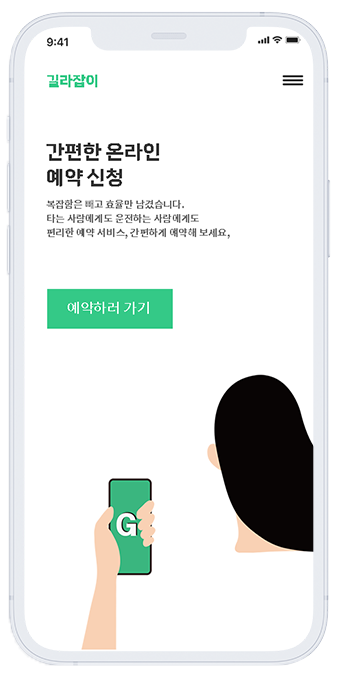
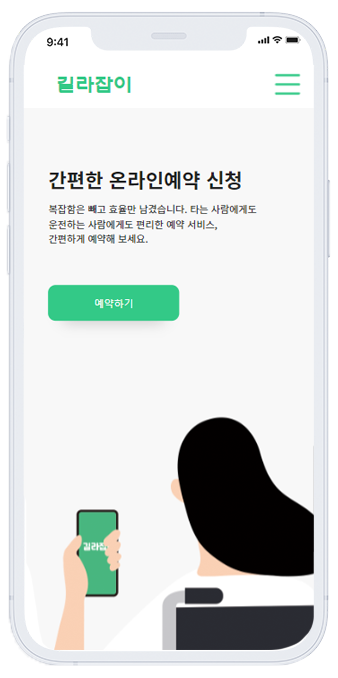
feat: 앱소개 이미지 변경

diff --git a/css/index.css b/css/index.css
@@ -1084,7 +1084,7 @@ header .inner {
 }
 .bg > div p span {
   font-weight: bold;
-  font-size: 50px;
+  font-size: 45px;
 }
 .bg > div.bg01 {
   background: url("../images/index/cleanbanner.png") no-repeat 50% 50% / cover;
@@ -1512,7 +1512,7 @@ header .inner {
   display: flex;
   padding-bottom: 5%;
   flex-wrap: wrap;
-  justify-content: space-around;
+  justify-content: flex-start;
 }
 .review-sw {
   position: relative;
@@ -1521,7 +1521,11 @@ header .inner {
   height: 50%;
 }
 .review-txt {
-  width: 100%;
+  position: relative;
+  display: block;
+  text-align: left;
+  width: 70%;
+  
 }
 .review h2 {
   font-size: 50px;
